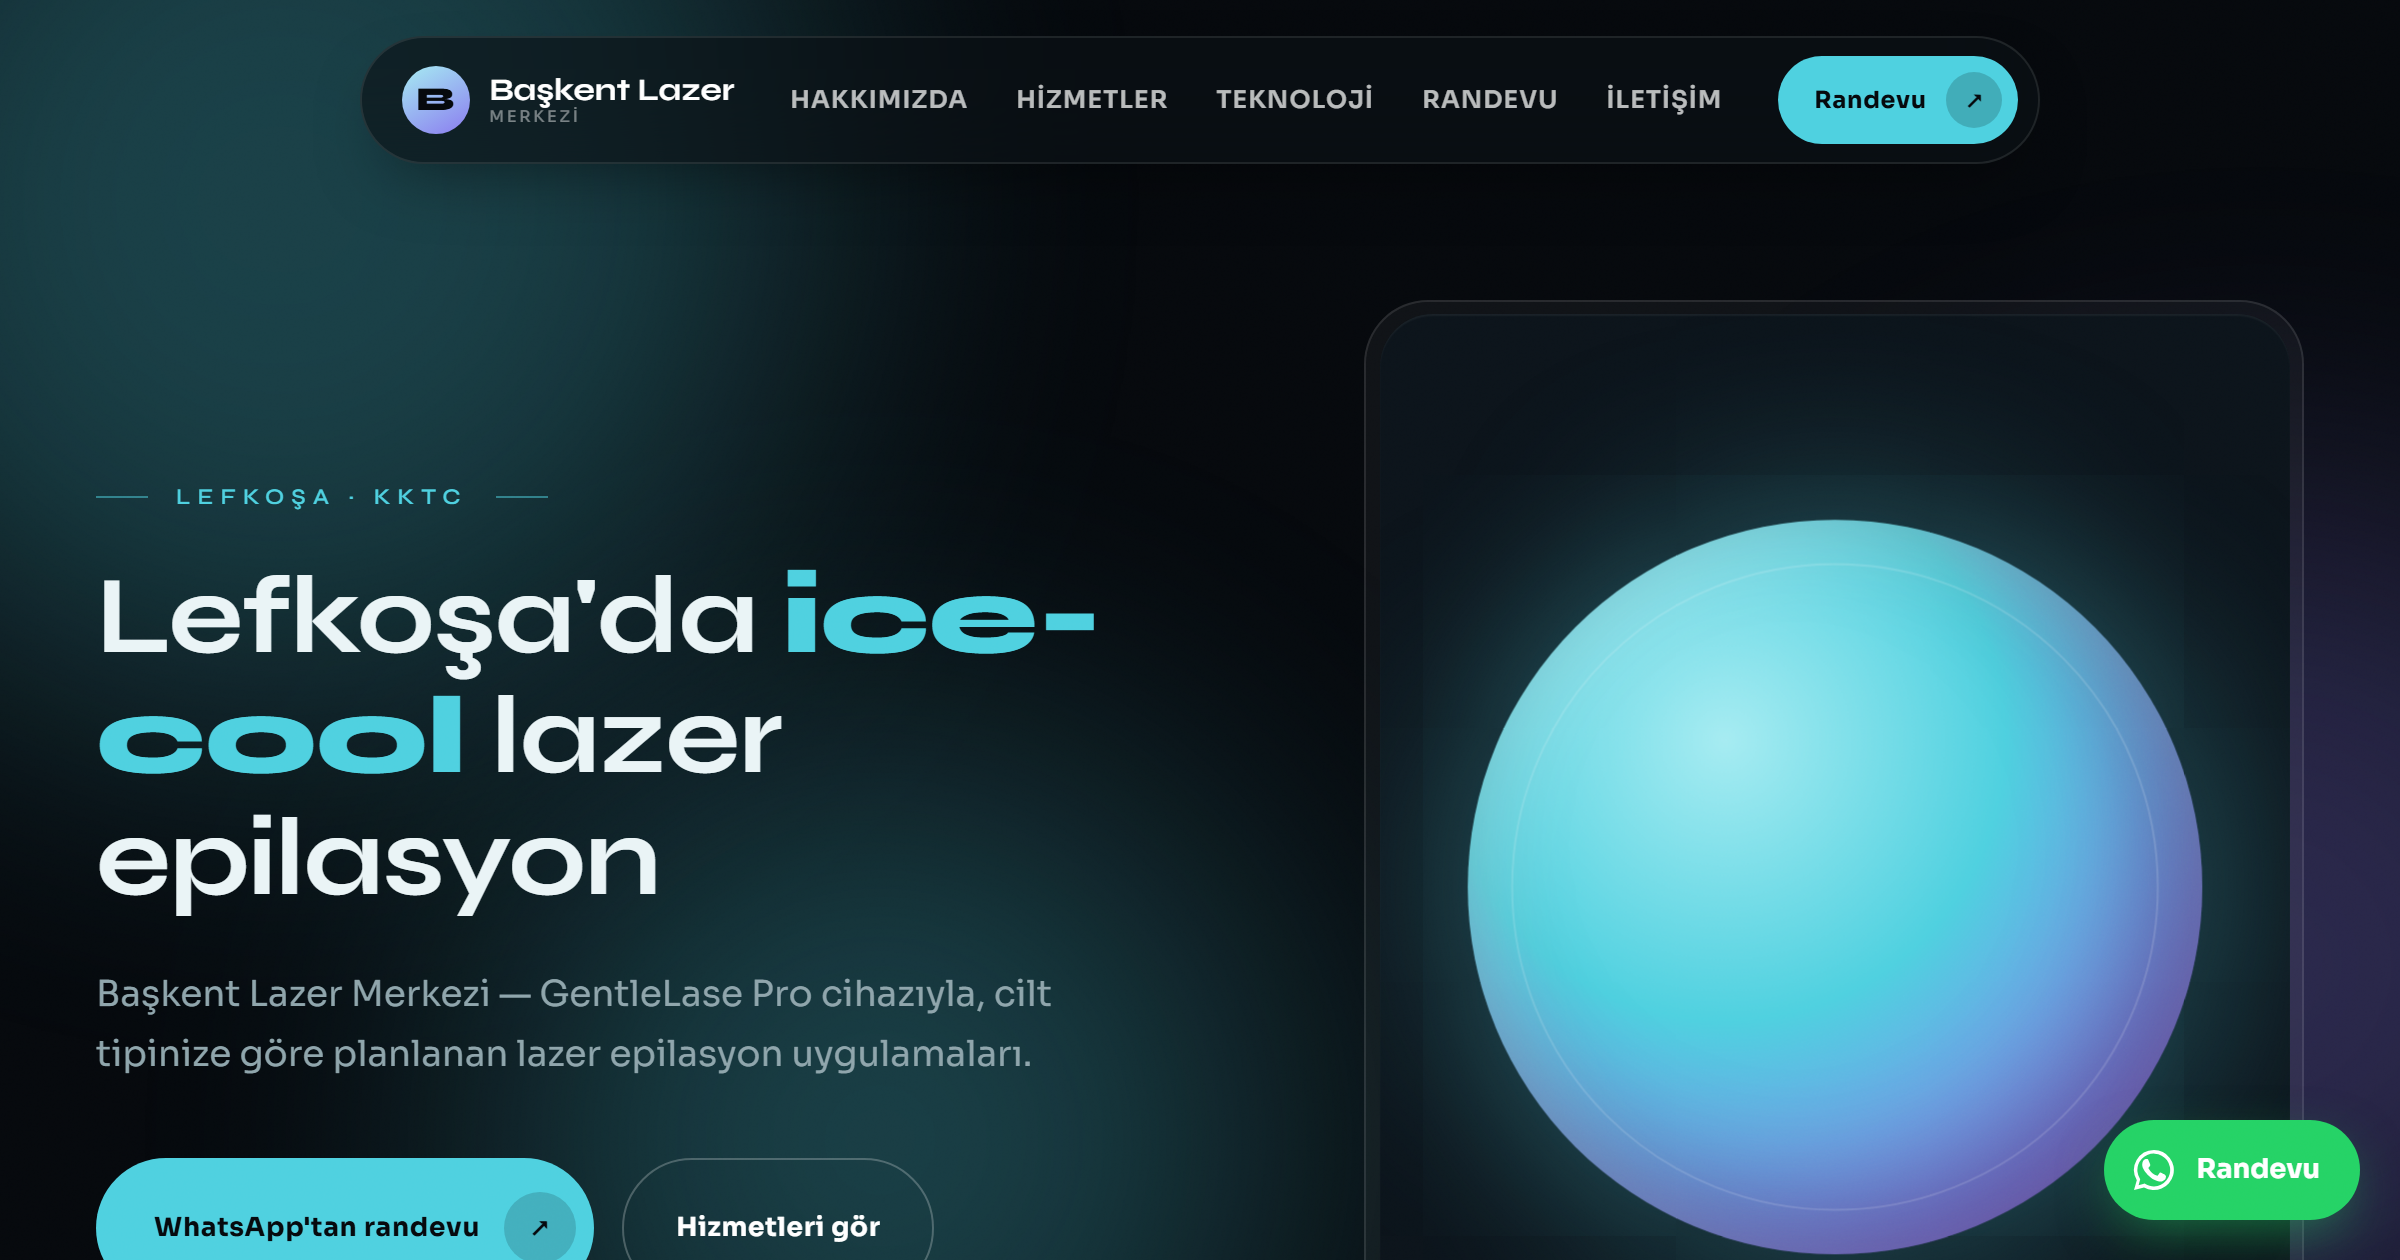
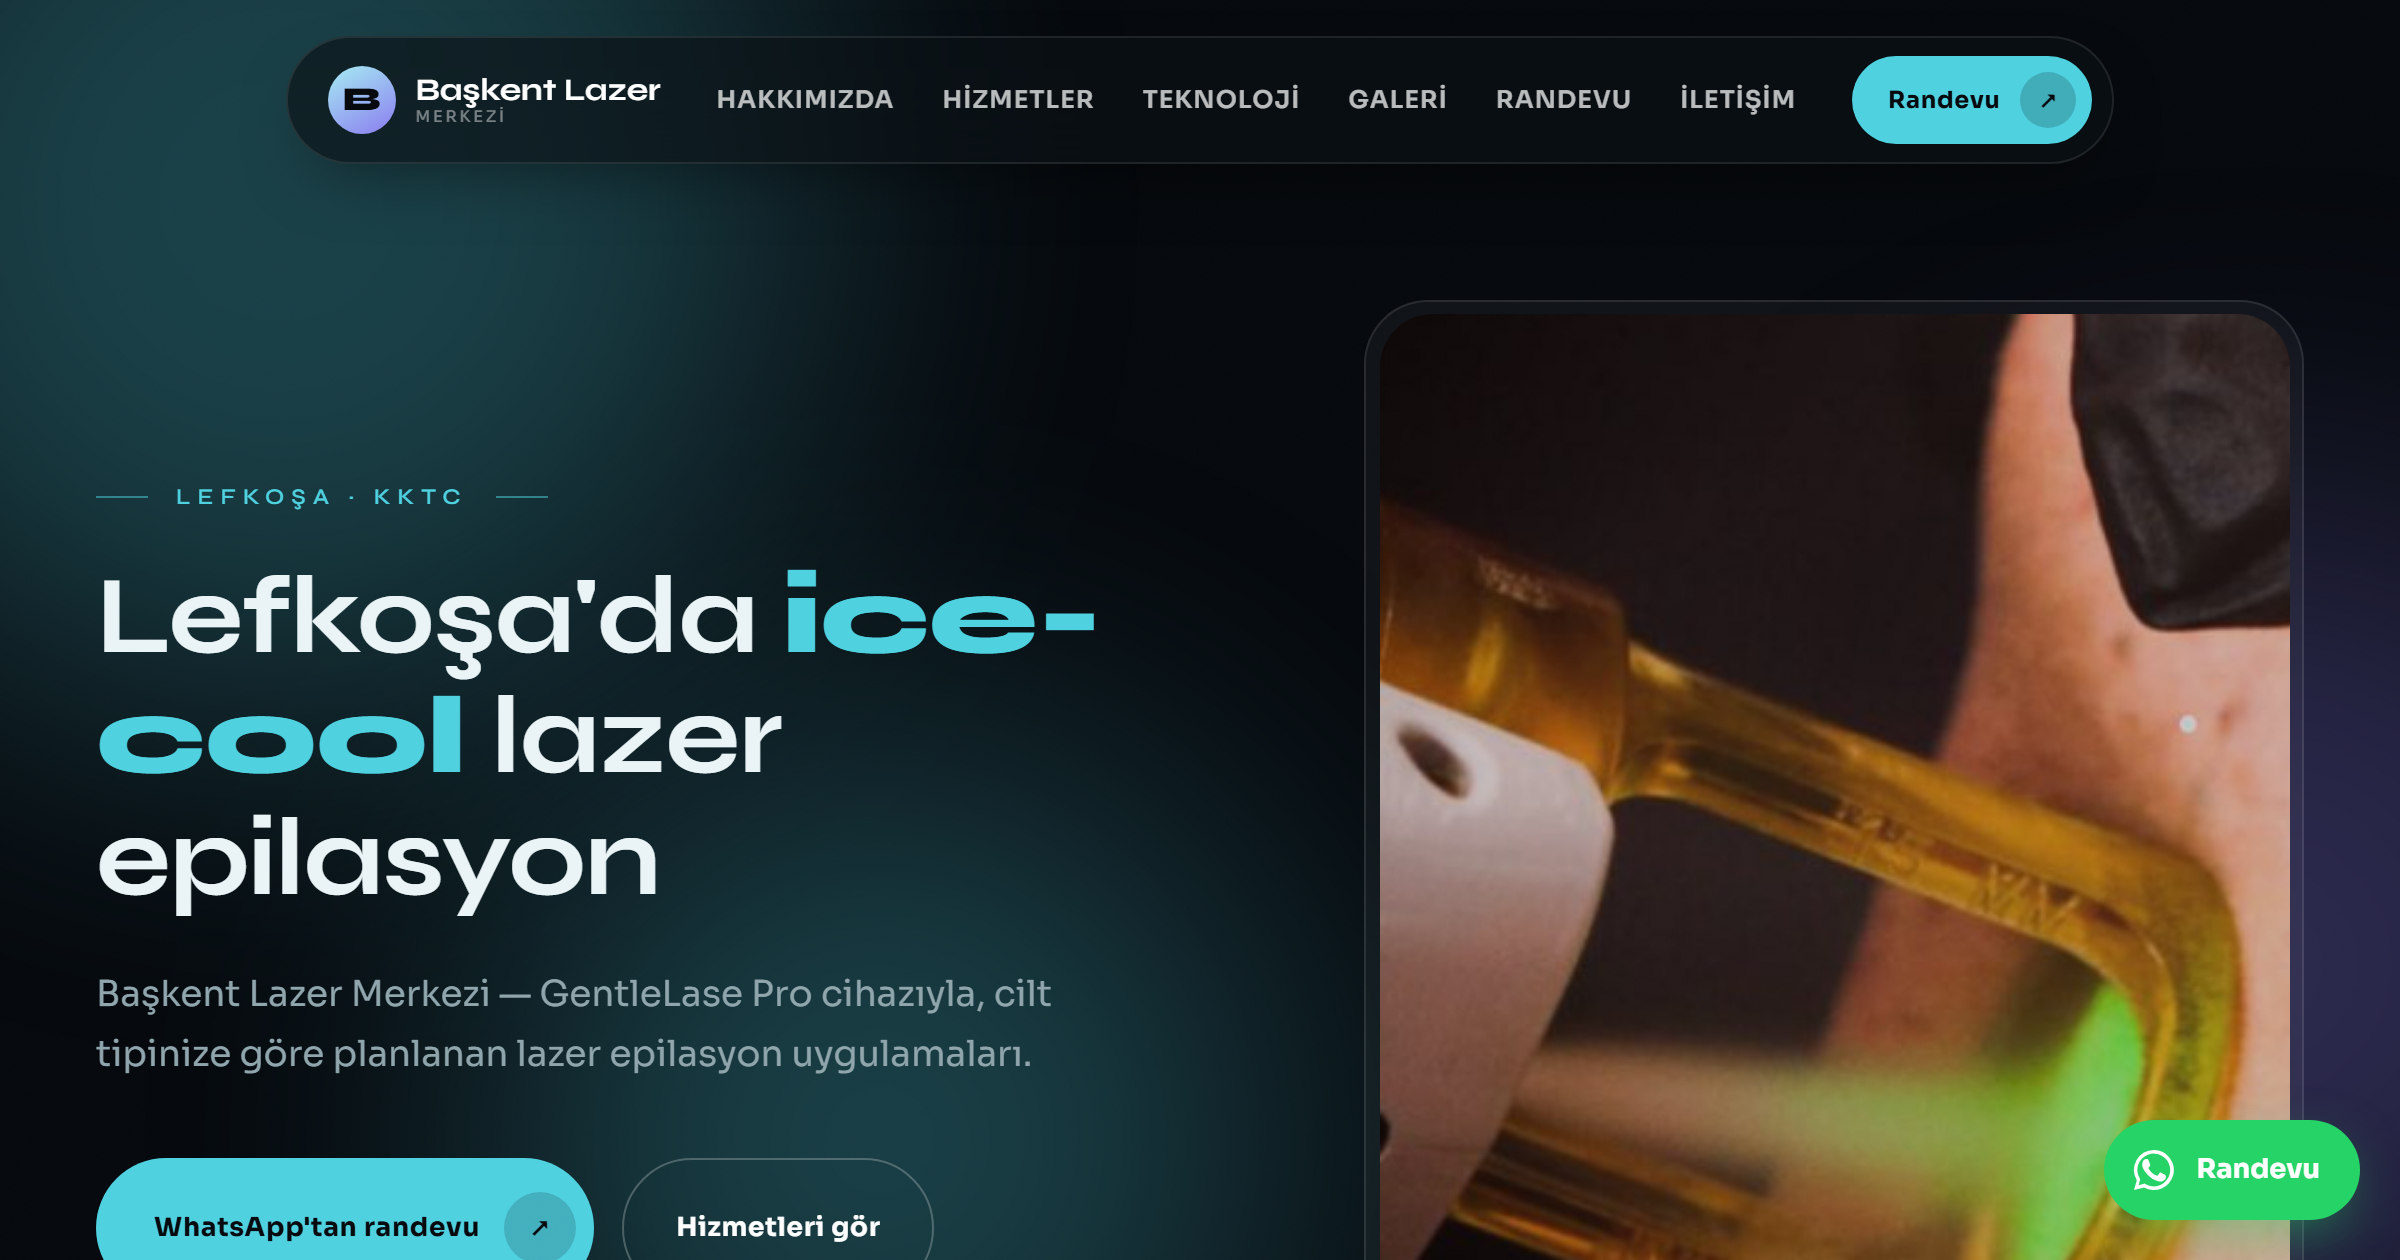
Gerçek uygulama fotoğraflarıyla hero ve galeri ekle, mobil taşma hatasını düzelt

Changed region(s): [[0.5625, 0.2476, 0.9688, 1.0], [0.0938, 0.031, 0.875, 0.1238]]

diff --git a/index.html b/index.html
@@ -25,7 +25,7 @@
   --ease:cubic-bezier(.32,.72,0,1);
 }
 *{margin:0;padding:0;box-sizing:border-box}
-html{scroll-behavior:smooth}
+html{scroll-behavior:smooth;overflow-x:hidden}
 body{background:var(--void);color:var(--text);font-family:var(--b);font-weight:400;
   font-size:16px;line-height:1.7;-webkit-font-smoothing:antialiased;overflow-x:hidden}
 h1,h2,h3{font-family:var(--d);font-weight:700;letter-spacing:-.01em;line-height:1.1}
@@ -113,6 +113,7 @@ body.menu-on .mmenu a:nth-child(5){transition-delay:.32s}
 .hbtns{display:flex;gap:14px;flex-wrap:wrap}
 .orb-card{aspect-ratio:4/5;position:relative}
 .orb-core{width:100%;height:100%;position:relative;display:grid;place-items:center;overflow:hidden}
+.orb-core img{width:100%;height:100%;object-fit:cover}
 .orb{width:78%;aspect-ratio:1;border-radius:50%;position:relative;
   background:radial-gradient(circle at 35% 30%,var(--cyan-lt),var(--cyan) 40%,var(--violet) 78%,transparent 100%);
   box-shadow:0 0 90px 10px rgba(79,209,224,.35),inset -20px -20px 60px rgba(0,0,0,.35),inset 12px 12px 40px rgba(255,255,255,.25);
@@ -171,6 +172,20 @@ section{padding:clamp(80px,10vw,140px) 0;position:relative;z-index:1}
 .nitem h3{font-size:1.06rem;margin-bottom:8px;font-weight:700}
 .nitem p{color:var(--muted);font-size:.9rem}
 
+.gal{display:grid;grid-template-columns:repeat(4,1fr);gap:16px;margin-top:56px}
+.gitem{aspect-ratio:1;position:relative;cursor:pointer}
+.gitem .bez-core{width:100%;height:100%}
+.gitem img{width:100%;height:100%;object-fit:cover;transition:.9s var(--ease)}
+.gitem:hover img{transform:scale(1.06)}
+.gchip{position:absolute;left:14px;bottom:14px;background:rgba(6,10,14,.78);backdrop-filter:blur(8px);
+  border-radius:.7rem;padding:8px 12px;color:#fff;z-index:2}
+.gchip span{font-size:.56rem;letter-spacing:.14em;text-transform:uppercase;color:var(--cyan-lt);display:block}
+.gchip b{font-family:var(--d);font-size:.86rem;font-weight:700}
+.lb{position:fixed;inset:0;background:rgba(3,5,7,.94);z-index:100;display:none;place-items:center;padding:26px}
+.lb.on{display:grid}
+.lb img{max-width:92vw;max-height:88vh;object-fit:contain;border-radius:1rem}
+.lbx{position:absolute;top:22px;right:28px;color:#fff;font-size:2.2rem;cursor:pointer;line-height:1}
+
 .randevu{background:var(--void)}
 .rgrid{display:grid;grid-template-columns:1fr 1.1fr;gap:clamp(34px,6vw,72px);align-items:start}
 .rpoints{list-style:none;margin-top:30px}
@@ -220,6 +235,7 @@ footer p{font-size:.92rem;margin-bottom:8px;color:var(--muted)}
   .pitem:first-child{border-top:none}
   .s1,.s2,.s3,.s4,.s5{grid-column:span 12}
   .ngrid{grid-template-columns:1fr}
+  .gal{grid-template-columns:1fr 1fr}
   .fgrid{grid-template-columns:1fr;gap:34px}
 }
 </style>
@@ -236,6 +252,7 @@ footer p{font-size:.92rem;margin-bottom:8px;color:var(--muted)}
     <a href="#hakkimizda">Hakkımızda</a>
     <a href="#hizmetler">Hizmetler</a>
     <a href="#teknoloji">Teknoloji</a>
+    <a href="#galeri">Galeri</a>
     <a href="#randevu">Randevu</a>
     <a href="#iletisim">İletişim</a>
   </nav>
@@ -247,6 +264,7 @@ footer p{font-size:.92rem;margin-bottom:8px;color:var(--muted)}
   <a href="#hakkimizda">Hakkımızda</a>
   <a href="#hizmetler">Hizmetler</a>
   <a href="#teknoloji">Teknoloji</a>
+  <a href="#galeri">Galeri</a>
   <a href="#randevu">Randevu</a>
   <a href="#iletisim">İletişim</a>
   <a class="navcta" href="https://wa.me/905338210909" target="_blank">WhatsApp'tan yazın <i>↗</i></a>
@@ -265,9 +283,7 @@ footer p{font-size:.92rem;margin-bottom:8px;color:var(--muted)}
         </div>
       </div>
       <div class="orb-card bez">
-        <div class="bez-core orb-core">
-          <div class="orb"><div class="orb-ring"></div></div>
-        </div>
+        <div class="bez-core orb-core"><img src="foto/hero.png" alt="Başkent Lazer Merkezi GentleLase Pro lazer epilasyon uygulaması"></div>
         <div class="chip"><span>Teknoloji</span><b>GentleLase Pro</b></div>
       </div>
     </div>
@@ -331,6 +347,24 @@ footer p{font-size:.92rem;margin-bottom:8px;color:var(--muted)}
   </div>
 </div></section>
 
+<section id="galeri"><div class="w">
+  <div class="center rv">
+    <span class="eyebrow">Galeri</span>
+    <h2 class="stitle">Uygulamalarımızdan <em>kareler</em></h2>
+    <p class="slead">GentleLase Pro cihazıyla gerçekleştirdiğimiz uygulamalardan kareler.</p>
+  </div>
+  <div class="gal">
+    <div class="gitem rv bez"><div class="bez-core"><img src="foto/kol.png" alt="Kol bölgesi lazer epilasyon uygulaması"></div>
+      <div class="gchip"><span>Uygulama</span><b>Kol</b></div></div>
+    <div class="gitem rv rv2 bez"><div class="bez-core"><img src="foto/bacak.png" alt="Bacak bölgesi lazer epilasyon uygulaması"></div>
+      <div class="gchip"><span>Uygulama</span><b>Bacak</b></div></div>
+    <div class="gitem rv rv3 bez"><div class="bez-core"><img src="foto/sirt.png" alt="Sırt bölgesi lazer epilasyon uygulaması"></div>
+      <div class="gchip"><span>Uygulama</span><b>Sırt</b></div></div>
+    <div class="gitem rv rv4 bez"><div class="bez-core"><img src="foto/hero.png" alt="GentleLase Pro cihazı yakın çekim"></div>
+      <div class="gchip"><span>Teknoloji</span><b>GentleLase Pro</b></div></div>
+  </div>
+</div></section>
+
 <section class="randevu" id="randevu"><div class="w rgrid">
   <div class="rv">
     <span class="eyebrow">Randevu</span>
@@ -388,6 +422,8 @@ footer p{font-size:.92rem;margin-bottom:8px;color:var(--muted)}
   Randevu
 </a>
 
+<div class="lb" id="lb" onclick="this.classList.remove('on')"><span class="lbx">&times;</span><img id="lbi" src=""></div>
+
 <script>
 document.getElementById('yil').textContent=new Date().getFullYear();
 
@@ -397,6 +433,9 @@ document.querySelectorAll('.rv').forEach(e=>io.observe(e));
 const burger=document.getElementById('burger');
 burger.addEventListener('click',()=>document.body.classList.toggle('menu-on'));
 document.querySelectorAll('#mmenu a').forEach(a=>a.addEventListener('click',()=>document.body.classList.remove('menu-on')));
+
+document.querySelectorAll('.gitem img').forEach(g=>g.closest('.gitem').addEventListener('click',()=>{
+  document.getElementById('lbi').src=g.src;document.getElementById('lb').classList.add('on')}));
 
 const F=document.getElementById('f_gonder');
 function wa(){
